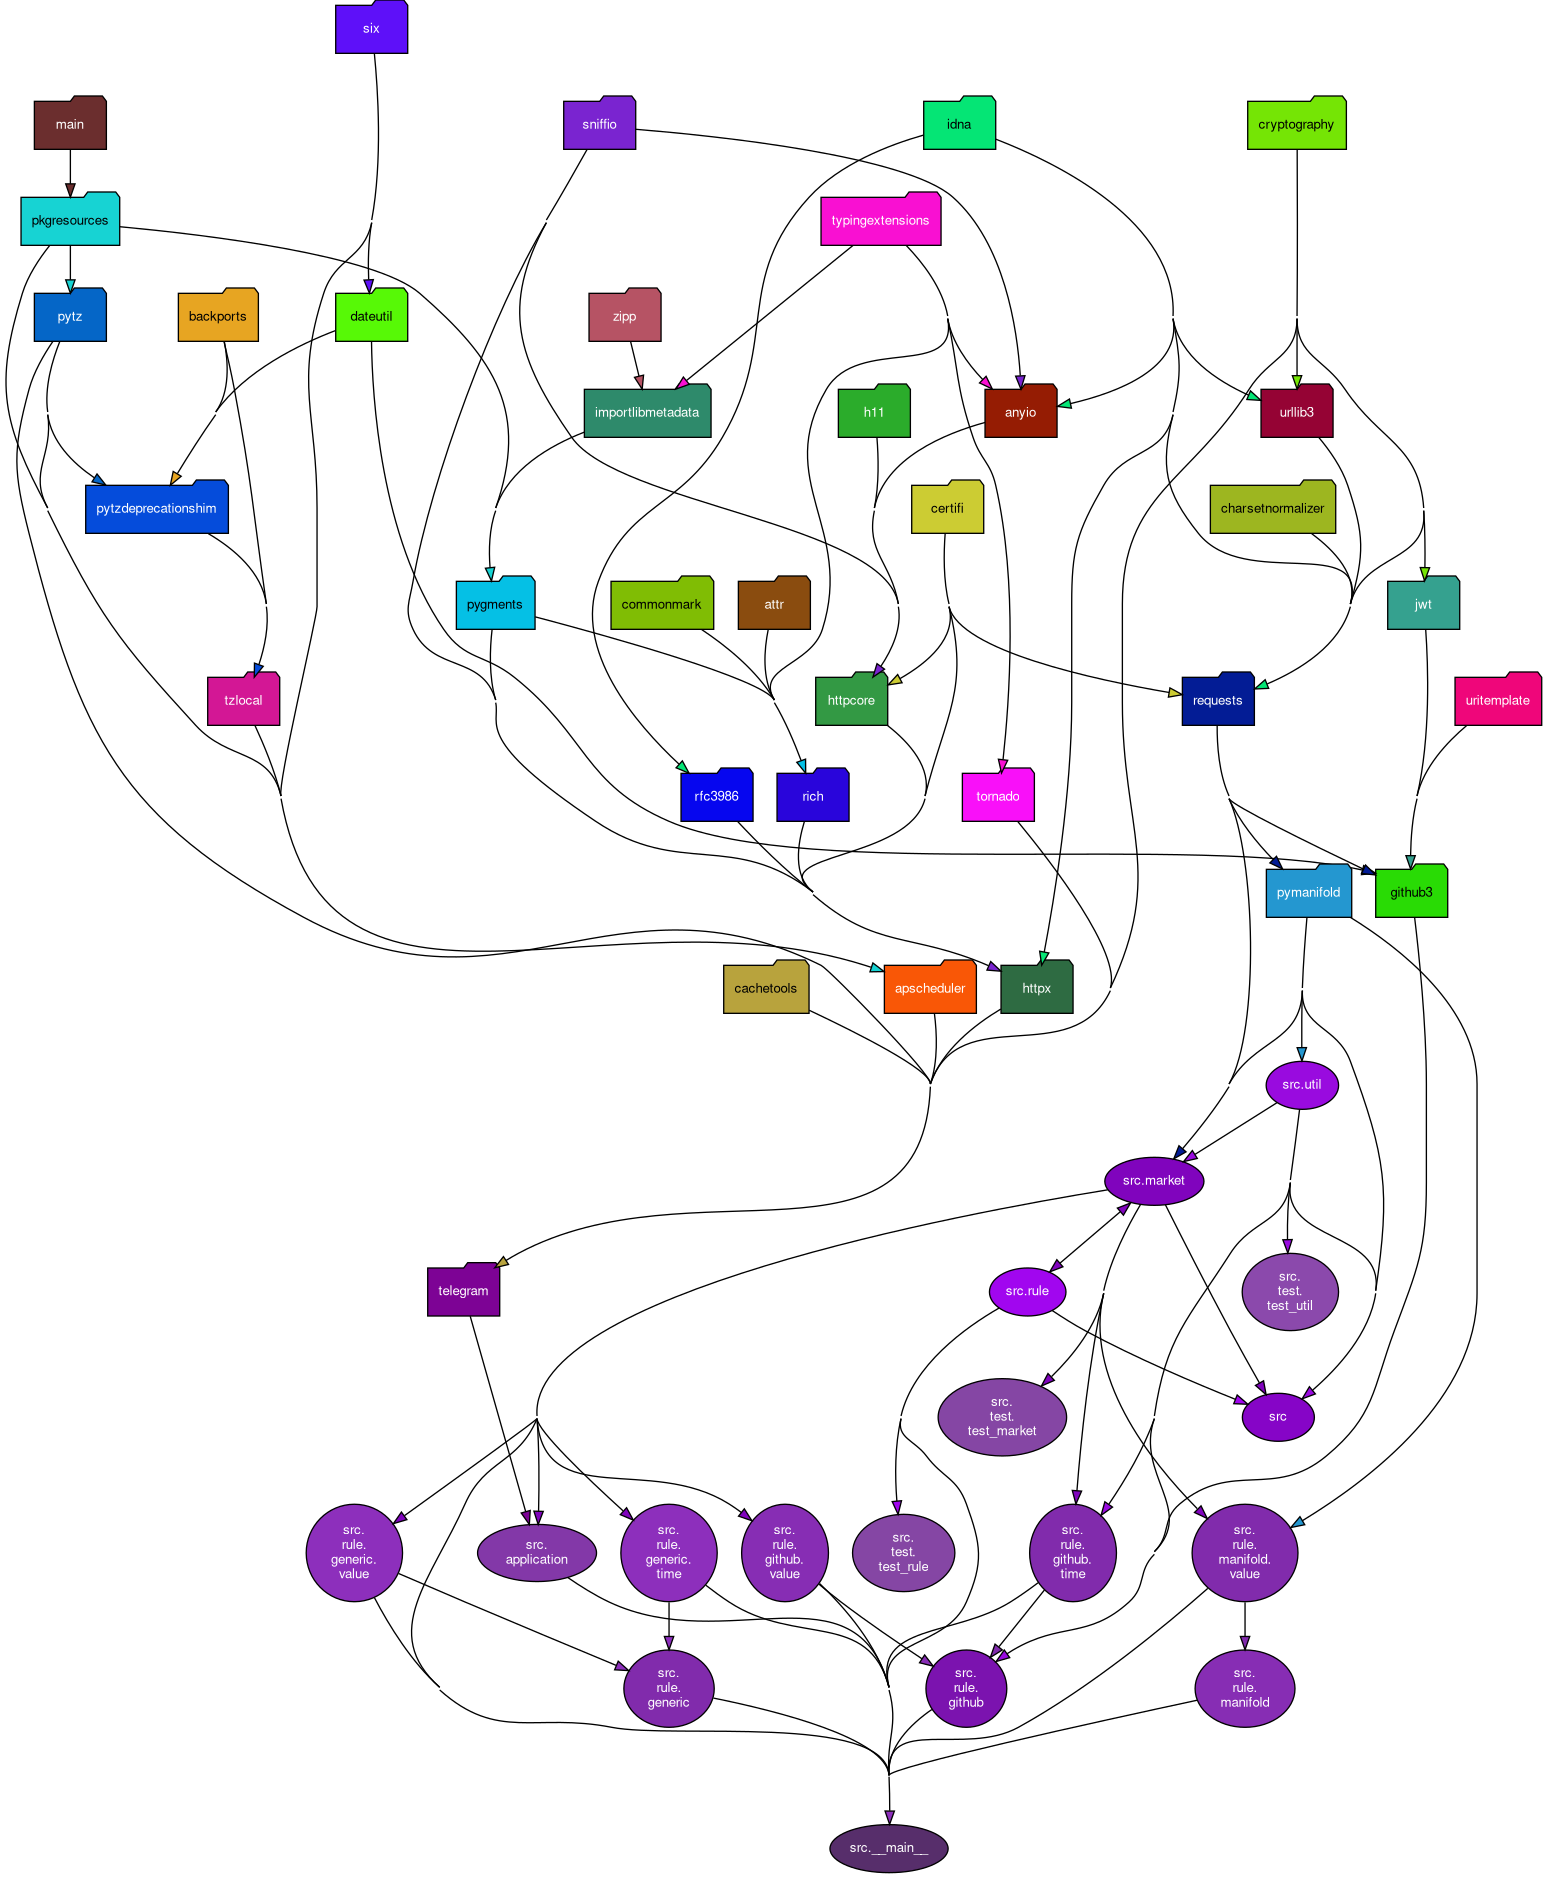
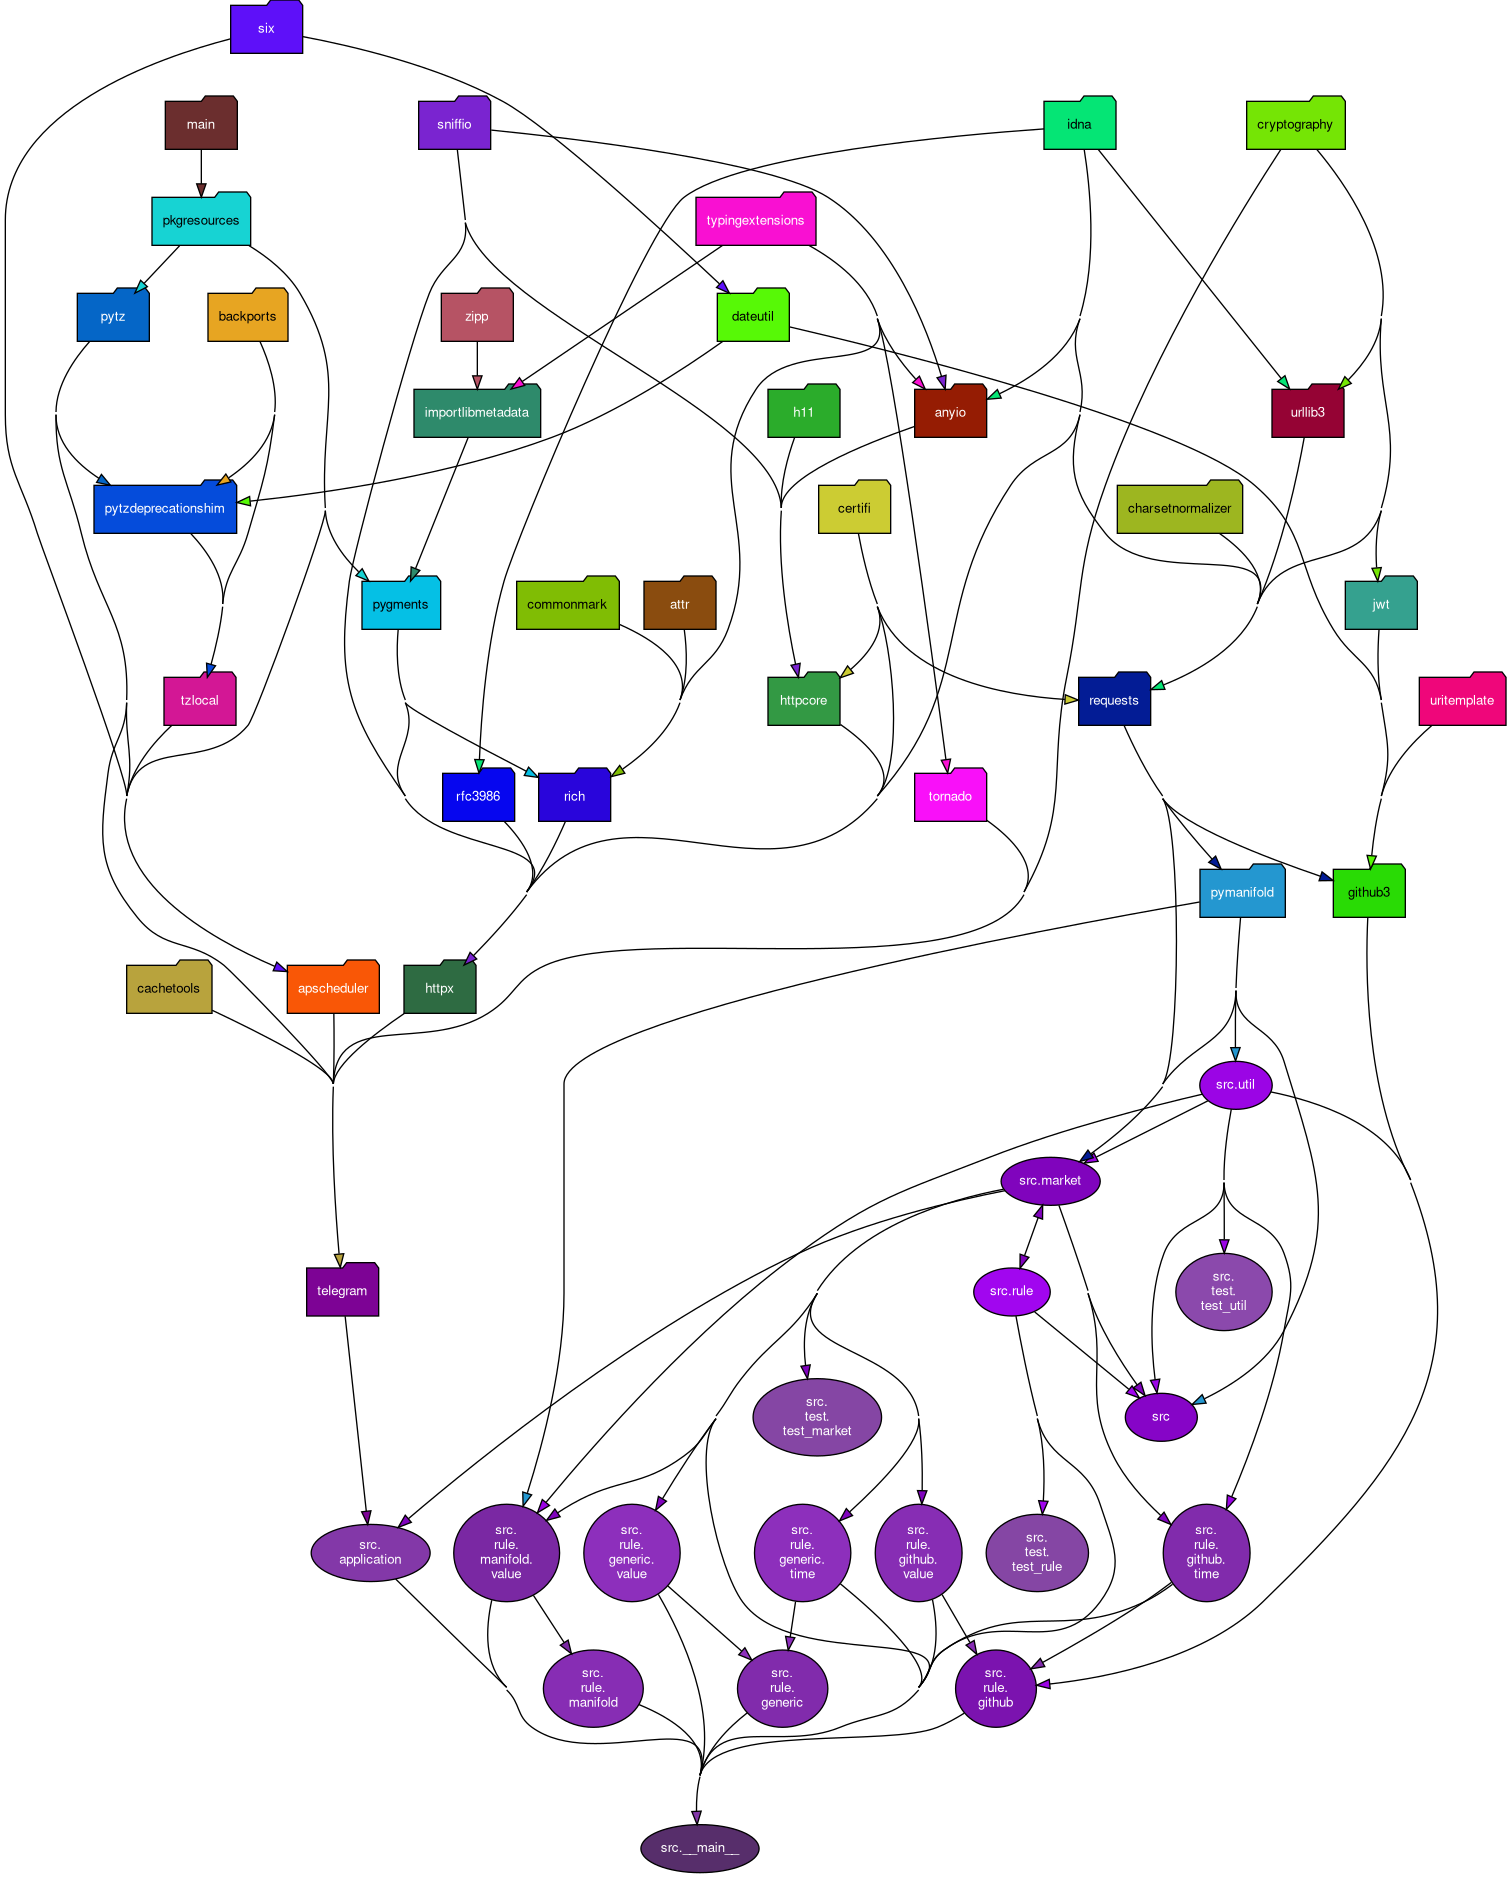
Add fibonacci rule, move pool->number math

diff --git a/src/rule/manifold/value.py b/src/rule/manifold/value.py
@@ -1,9 +1,9 @@
 from dataclasses import dataclass
-from math import log10
 from typing import TYPE_CHECKING, Any, Dict, Literal, Union, cast
 
 from pymanifold.lib import ManifoldClient
 
+from ...util import fibonacci, pool_to_number
 from ... import FreeResponseResolution, MultipleChoiceResolution
 from .. import ResolutionValueRule
 
@@ -18,17 +18,14 @@ class CurrentValueRule(ResolutionValueRule):
         if market.market.outcomeType == "BINARY":
             return cast(float, market.market.probability * 100)
         elif market.market.outcomeType == "PSEUDO_NUMERIC":
-            pno = market.market.p * market.market.pool['NO']
-            probability = (pno / ((1 - market.market.p) * market.market.pool['YES'] + pno))
-            start = float(market.market.min or 0)
-            end = float(market.market.max or 0)
-            ret: float
-            if market.market.isLogScale:
-                logValue = log10(end - start + 1) * probability
-                ret = max(start, min(end, 10**logValue + start - 1))
-            else:
-                ret = max(start, min(end, start + (end - start) * probability))
-            return ret
+            return pool_to_number(
+                market.market.pool['YES'],
+                market.market.pool['NO'],
+                market.market.p,
+                float(market.market.min or 0),
+                float(market.market.max or 0),
+                market.market.isLogScale
+            )
         elif market.market.outcomeType == "FREE_RESPONSE":
             return {
                 cast(str, answer['id']): float(answer['probability'])
@@ -44,6 +41,44 @@ class CurrentValueRule(ResolutionValueRule):
 
     def _explain_abstract(self, indent: int = 0, **kwargs: Any) -> str:
         return f"{'  ' * indent}- Resolves to the current market value.\n"
+
+
+@dataclass
+class FibonacciValueRule(ResolutionValueRule):
+    """Resolve each value with a fibonacci weight, ranked by probability."""
+
+    start: int = 0
+    min_rewarded: float = 0.0001
+
+    def _value(self, market: 'Market') -> Union[float, Dict[Any, float]]:
+        if market.market.outcomeType == "FREE_RESPONSE":
+            items = {
+                int(answer['id']): float(answer['probability'])
+                for answer in market.market.answers
+            }
+        elif market.market.outcomeType == "MULTIPLE_CHOICE":
+            # TODO: reimplement dpm-2 math so this is actually by probability
+            pool = {
+                int(answer): float(market.market.pool[answer])
+                for answer in market.market.pool
+            }
+            s_total = sum(shares**2 for shares in pool)
+            items = {key: shares**2 / s_total for key, shares in pool.items()}
+        else:
+            raise TypeError()
+
+        rank = sorted(filter(self.start.__le__, items), key=items.__getitem__)
+        ret = {item: fib for item, fib in zip(rank, fibonacci())}
+        total = sum(ret.values())
+        return {key: val / total for key, val in ret.items()}
+
+    def _explain_abstract(self, indent: int = 0, **kwargs: Any) -> str:
+        ret = f"{'  ' * indent}- Weight each* answer to the fibonacci rank of their probability\n"
+        block = '  ' * (indent + 1)
+        ret += f"{block}- Filter out indices below {self.start}, probabilities below {self.min_rewarded * 100}%\n"
+        ret += f"{block}- Sort by probability\n"
+        ret += f"{block}- Iterate over this and the fibonacci numbers in lockstep. Those are the weights\n"
+        return ret
 
 
 class RoundValueRule(CurrentValueRule):

diff --git a/src/market.py b/src/market.py
@@ -10,7 +10,7 @@ from pymanifold.types import Market as APIMarket
 from requests import Response
 
 from . import AnyResolution
-from .util import explain_abstract, get_client, require_env, round_sig_figs
+from .util import explain_abstract, get_client, pool_to_number, require_env, round_sig_figs
 
 if TYPE_CHECKING:
     from .rule import DoResolveRule, ResolutionValueRule
@@ -166,17 +166,14 @@ class Market:
         if self.market.outcomeType == "BINARY":
             return f"{100 * self.market.probability}%"
         elif self.market.outcomeType == "PSEUDO_NUMERIC":
-            pno = self.market.p * self.market.pool['NO']
-            probability = (pno / ((1 - self.market.p) * self.market.pool['YES'] + pno))
-            start = float(self.market.min or 0)
-            end = float(self.market.max or 0)
-            ret: float
-            if self.market.isLogScale:
-                logValue = log10(end - start + 1) * probability
-                ret = max(start, min(end, 10**logValue + start - 1))
-            else:
-                ret = max(start, min(end, start + (end - start) * probability))
-            return ret
+            return pool_to_number(
+                self.market.pool['YES'],
+                self.market.pool['NO'],
+                self.market.p,
+                float(self.market.min or 0),
+                float(self.market.max or 0),
+                self.market.isLogScale
+            )
         elif self.market.outcomeType == "FREE_RESPONSE":
             return {idx: x['probability'] for idx, x in enumerate(self.market.answers)}
         elif self.market.outcomeType == "MULTIPLE_CHOICE":

diff --git a/src/util.py b/src/util.py
@@ -1,5 +1,6 @@
 from functools import lru_cache
 from logging import getLogger
+from math import log10
 from os import getenv
 from typing import Any, Callable, Iterable, TypeVar
 
@@ -21,6 +22,30 @@ ENVIRONMENT_VARIABLES = [
 # That said, if you use a rule that requires some API and have no key for it, it will fail
 
 T = TypeVar("T")
+
+
+def fibonacci(start: int = 1) -> Iterable[int]:
+    """Iterate over the fibonacci numbers."""
+    x = 0
+    y = 1
+    for _ in range(start):
+        x, y = y, x + y
+    while True:
+        yield x
+        x, y = y, x + y
+
+
+def pool_to_number(yes: float, no: float, p: float, start: float, end: float, isLogScale: bool = False) -> float:
+    """Go from a pool of probability to a numeric answer."""
+    pno = p * no
+    probability = (pno / ((1 - p) * yes + pno))
+    ret: float
+    if isLogScale:
+        logValue = log10(end - start + 1) * probability
+        ret = max(start, min(end, 10**logValue + start - 1))
+    else:
+        ret = max(start, min(end, start + (end - start) * probability))
+    return ret
 
 
 def round_sig_figs(num: float, sig_figs: int = 4) -> str:

diff --git a/src/__init__.py b/src/__init__.py
@@ -96,7 +96,7 @@ register_converter("Rule", loads)
 register_adapter(market.Market, dumps)
 register_converter("Market", loads)
 
-VERSION = "0.5.0.22"
+VERSION = "0.5.0.23"
 __version_info__ = tuple(int(x) for x in VERSION.split('.'))
 __all__ = [
     "__version_info__", "get_client", "market", "require_env", "rule", "util", "Market", "DoResolveRule",

diff --git a/src/test/test_rule.py b/src/test/test_rule.py
@@ -15,6 +15,7 @@ from . import PytestRequest
     "generic.value.ResolveRandomIndex",
     "generic.value.ResolveMultipleValues",
     "manifold.value.CurrentValueRule",
+    "manifold.value.FibonacciValueRule",
     "manifold.value.PopularValueRule",
     "manifold.value.ResolveToUserProfit",
     "manifold.value.ResolveToUserCreatedVolume",
